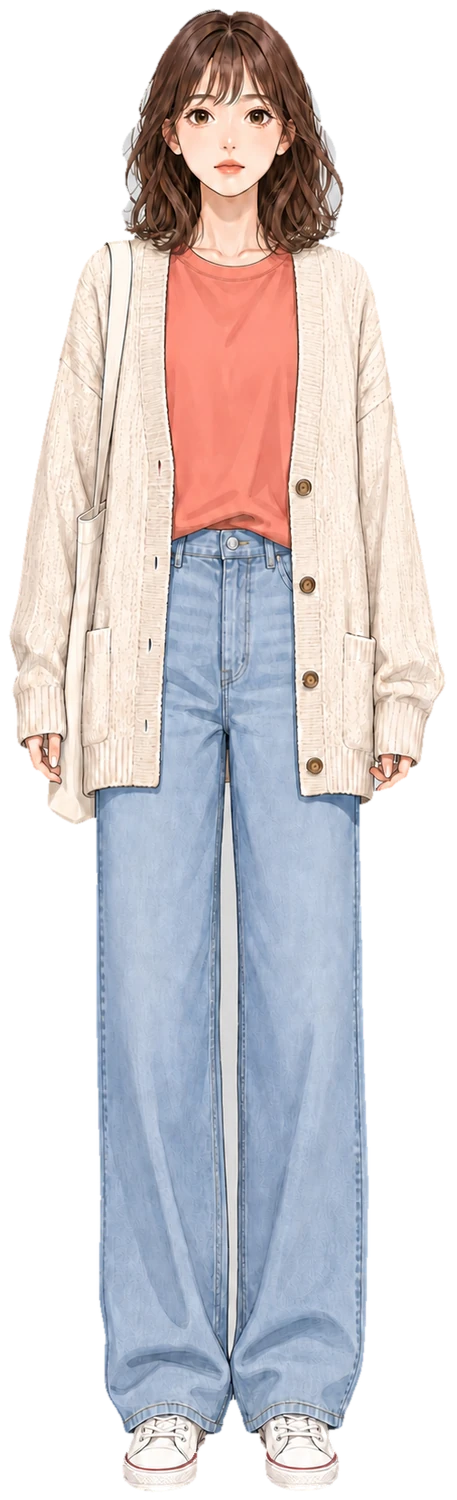
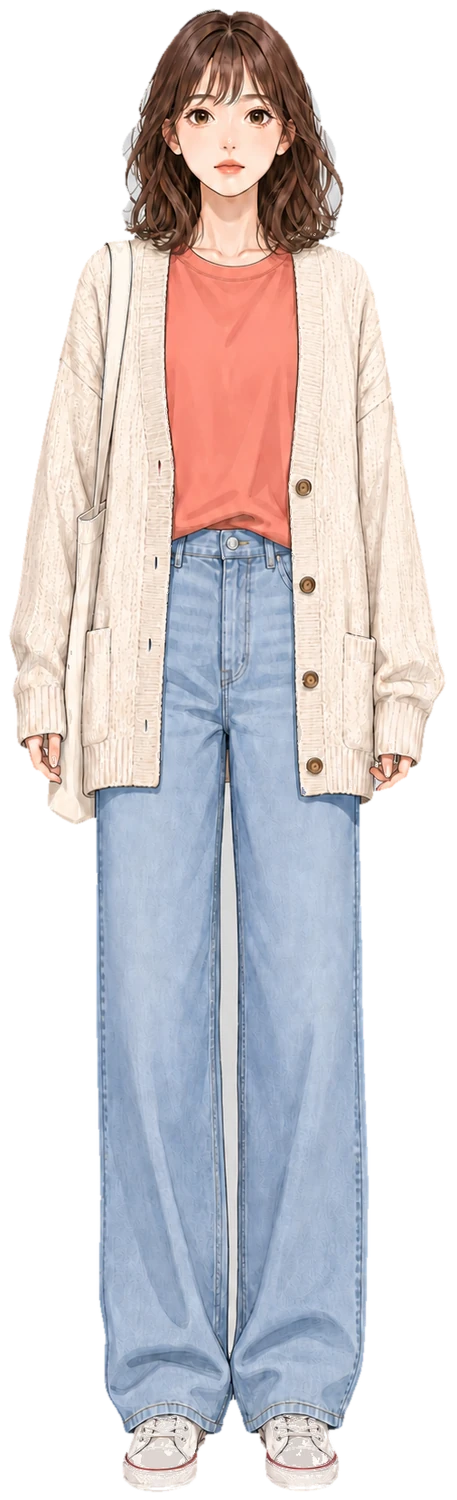
스탠딩 테두리 보정, 캐시 버전 갱신

Changed region(s): [[0.5821, 0.9507, 0.7352, 0.9813], [0.3063, 0.9507, 0.4289, 1.0]]

diff --git a/js/engine.js b/js/engine.js
@@ -14,23 +14,23 @@
 
   var ASSETS = {
     bg: {
-      office_day: 'assets/img/office_day.webp?v=1',
-      rooftop_sunset: 'assets/img/rooftop_sunset.webp?v=1',
-      office_night: 'assets/img/office_night.webp?v=1',
-      store_night: 'assets/img/store_night.webp?v=1'
+      office_day: 'assets/img/office_day.webp?v=2',
+      rooftop_sunset: 'assets/img/rooftop_sunset.webp?v=2',
+      office_night: 'assets/img/office_night.webp?v=2',
+      store_night: 'assets/img/store_night.webp?v=2'
     },
     char: {
       seoyun: {
-        base: 'assets/img/seoyun_base.webp?v=1',
-        blush: 'assets/img/seoyun_blush.webp?v=1',
-        surprised: 'assets/img/seoyun_surprised.webp?v=1',
-        serious: 'assets/img/seoyun_serious.webp?v=1'
+        base: 'assets/img/seoyun_base.webp?v=2',
+        blush: 'assets/img/seoyun_blush.webp?v=2',
+        surprised: 'assets/img/seoyun_surprised.webp?v=2',
+        serious: 'assets/img/seoyun_serious.webp?v=2'
       },
       haram: {
-        base: 'assets/img/haram_base.webp?v=1',
-        blush: 'assets/img/haram_blush.webp?v=1',
-        surprised: 'assets/img/haram_surprised.webp?v=1',
-        serious: 'assets/img/haram_serious.webp?v=1'
+        base: 'assets/img/haram_base.webp?v=2',
+        blush: 'assets/img/haram_blush.webp?v=2',
+        surprised: 'assets/img/haram_surprised.webp?v=2',
+        serious: 'assets/img/haram_serious.webp?v=2'
       }
     }
   };

diff --git a/index.html b/index.html
@@ -17,7 +17,7 @@
 <link rel="preconnect" href="https://fonts.googleapis.com">
 <link rel="preconnect" href="https://fonts.gstatic.com" crossorigin>
 <link rel="stylesheet" href="https://fonts.googleapis.com/css2?family=Gowun+Batang:wght@400;700&display=swap">
-<link rel="stylesheet" href="css/style.css?v=1">
+<link rel="stylesheet" href="css/style.css?v=2">
 </head>
 <body class="loading is-title">
 
@@ -114,7 +114,7 @@
   </div>
 </div>
 
-<script src="js/audio.js?v=1"></script>
-<script src="js/engine.js?v=1"></script>
+<script src="js/audio.js?v=2"></script>
+<script src="js/engine.js?v=2"></script>
 </body>
 </html>

diff --git a/css/style.css b/css/style.css
@@ -451,7 +451,7 @@ body:not(.is-title) #dialogue { opacity: 1; transform: none; }
 .title-bg {
   position: absolute;
   inset: 0;
-  background: url('../assets/img/rooftop_sunset.webp?v=1') center 42% / cover no-repeat;
+  background: url('../assets/img/rooftop_sunset.webp?v=2') center 42% / cover no-repeat;
   filter: blur(1.6px) saturate(0.92) brightness(0.86);
   transform: scale(1.06);
   animation: drift 26s ease-in-out infinite alternate;

diff --git a/tools/build_assets.py b/tools/build_assets.py
@@ -56,6 +56,43 @@ def alpha_of(path):
         comp = lab == idx
         if int(comp.sum()) < 4000:
             alpha[comp] = 0
+
+    # 실루엣 안쪽에 갇힌 작은 흰 점(머리카락과 목 사이 등)은 주변 색으로 메운다.
+    lab2, _ = ndimage.label(near_white)
+    objs = ndimage.find_objects(lab2)
+    for idx, sl in enumerate(objs, start=1):
+        if sl is None:
+            continue
+        y0, y1 = max(0, sl[0].start - 8), min(rgb.shape[0], sl[0].stop + 8)
+        x0, x1 = max(0, sl[1].start - 8), min(rgb.shape[1], sl[1].stop + 8)
+        comp = (lab2[y0:y1, x0:x1] == idx)
+        area = int(comp.sum())
+        if area == 0 or area > 1500:
+            continue
+        patch = rgb[y0:y1, x0:x1]
+        ring = ndimage.binary_dilation(comp, iterations=6) & ~comp
+        near = ring & (patch.min(axis=2) <= 235)
+        if near.sum() < 40:
+            continue
+        patch[comp] = np.median(patch[near], axis=0)
+
+    # 윤곽선 바로 바깥의 흰 테(원본 배경의 잔여)를 안쪽 색으로 바꾸고 반투명하게 눌러 준다.
+    soft_white = rgb.min(axis=2) > 232
+    trusted = (alpha > 200) & ~soft_white
+    spill = rgb.copy()
+    have = trusted.copy()
+    for _ in range(20):
+        for dy, dx in ((1, 0), (-1, 0), (0, 1), (0, -1)):
+            s_rgb = np.roll(spill, (dy, dx), axis=(0, 1))
+            s_have = np.roll(have, (dy, dx), axis=(0, 1))
+            take = (~have) & s_have
+            spill[take] = s_rgb[take]
+            have = have | take
+    wide = ndimage.binary_dilation(alpha < 20, iterations=9) & (alpha > 0) & soft_white & have
+    rgb[wide] = spill[wide]
+    rim = ndimage.binary_dilation(alpha < 20, iterations=3) & (alpha > 0) & soft_white
+    alpha[rim] *= 0.45
+
     alpha = ndimage.gaussian_filter(alpha, 0.5)
 
     core = alpha > 235
